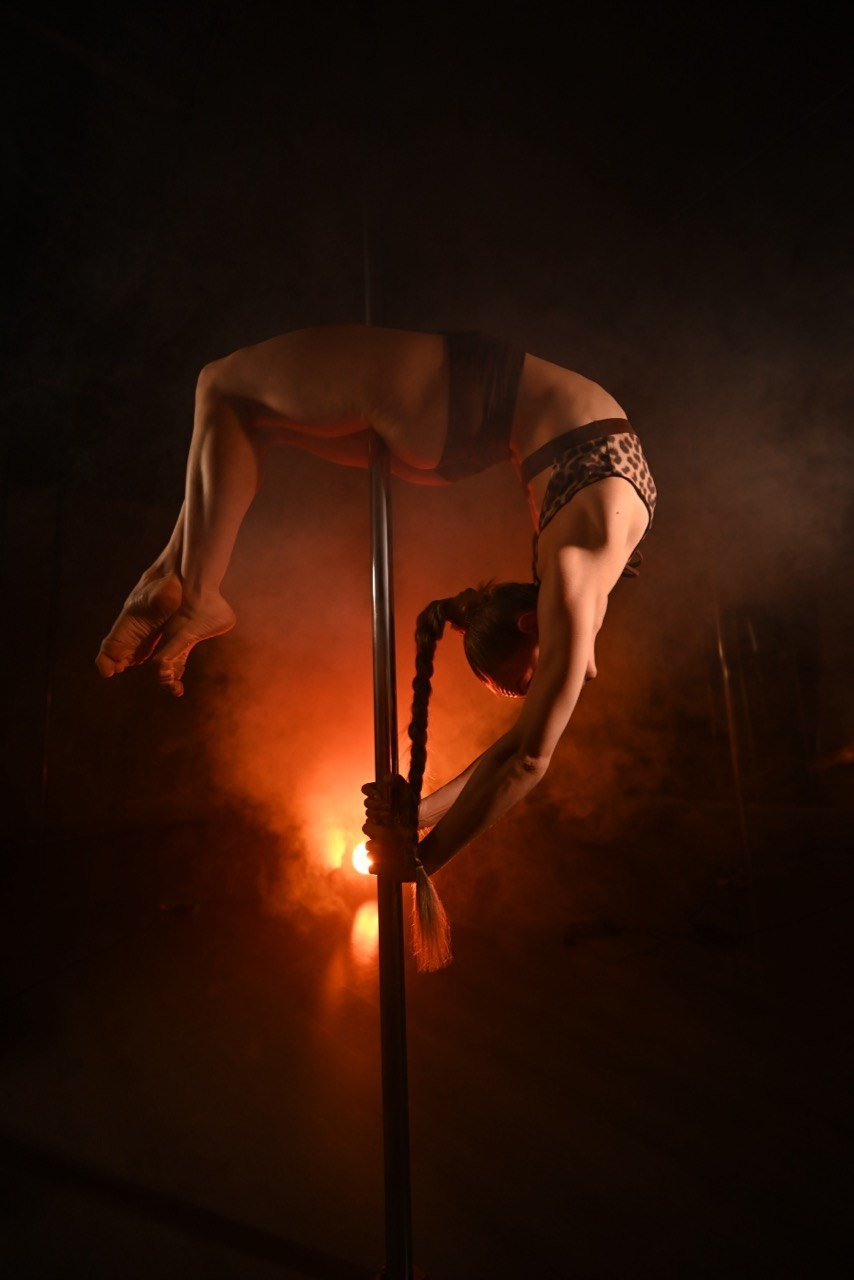
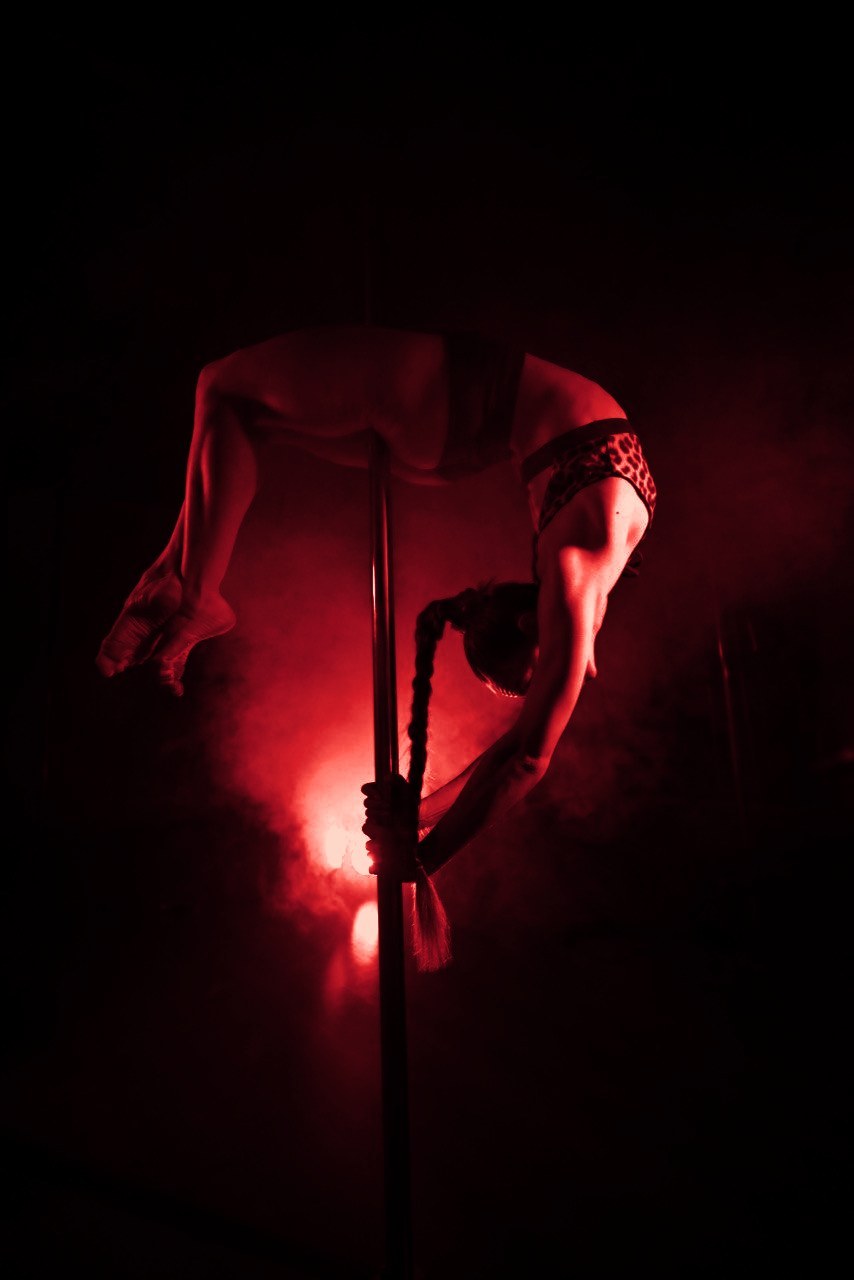
Add files via upload

diff --git a/src/components/Gallery.tsx b/src/components/Gallery.tsx
@@ -10,7 +10,7 @@ const photos = [
   { src: '/gallery/gallery-a.jpg', alt: 'Учениця Katy Pole Dance виконує елемент на пілоні в студії у Луцьку' },
   { src: '/gallery/gallery-c.jpg', alt: 'Силовий елемент на пілоні у студії танцю Katy Pole Dance, Луцьк' },
   { src: '/gallery/gallery-b.jpg', alt: 'Трюк на пілоні — заняття Pole Sport у студії Katy Pole Dance' },
-  { src: '/gallery/gallery-f.jpg', alt: 'Елемент на пілоні в теплому світлі — студія танцю на пілоні Katy Pole Dance' },
+  { src: '/gallery/gallery-f.jpg', alt: 'Елемент на пілоні у червоному світлі — студія танцю на пілоні Katy Pole Dance' },
 ];
 
 export default function Gallery() {
